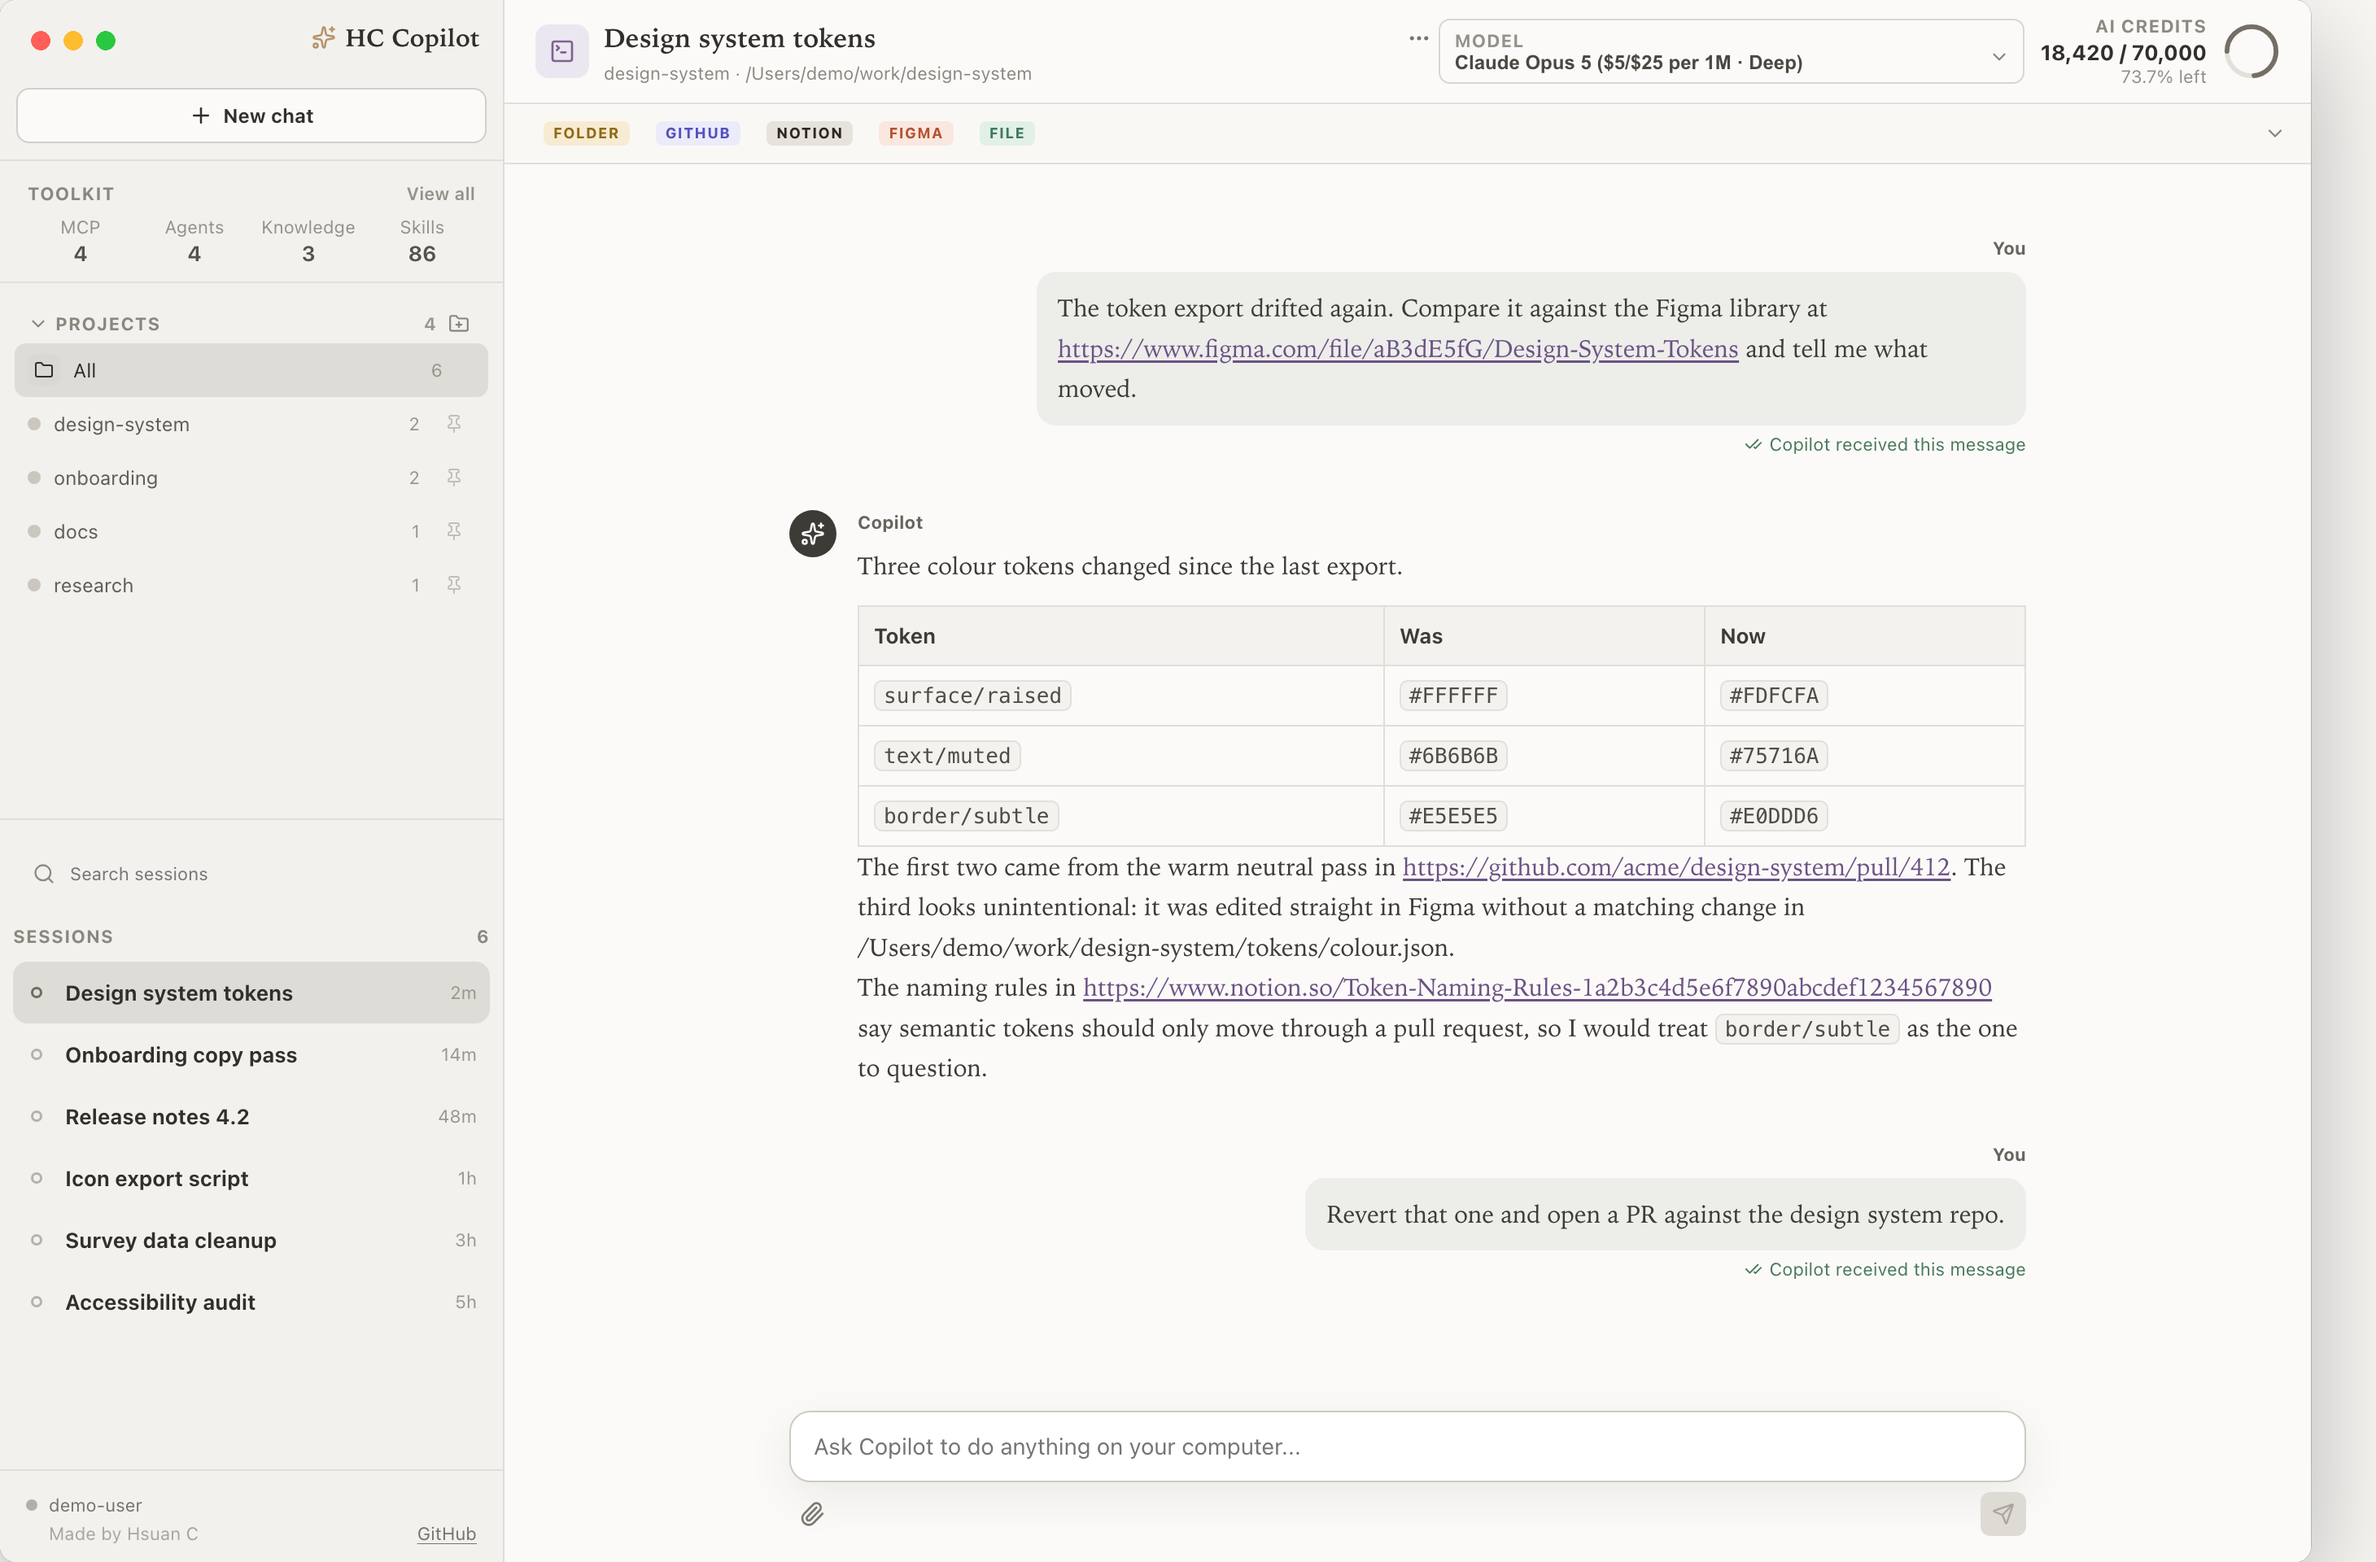
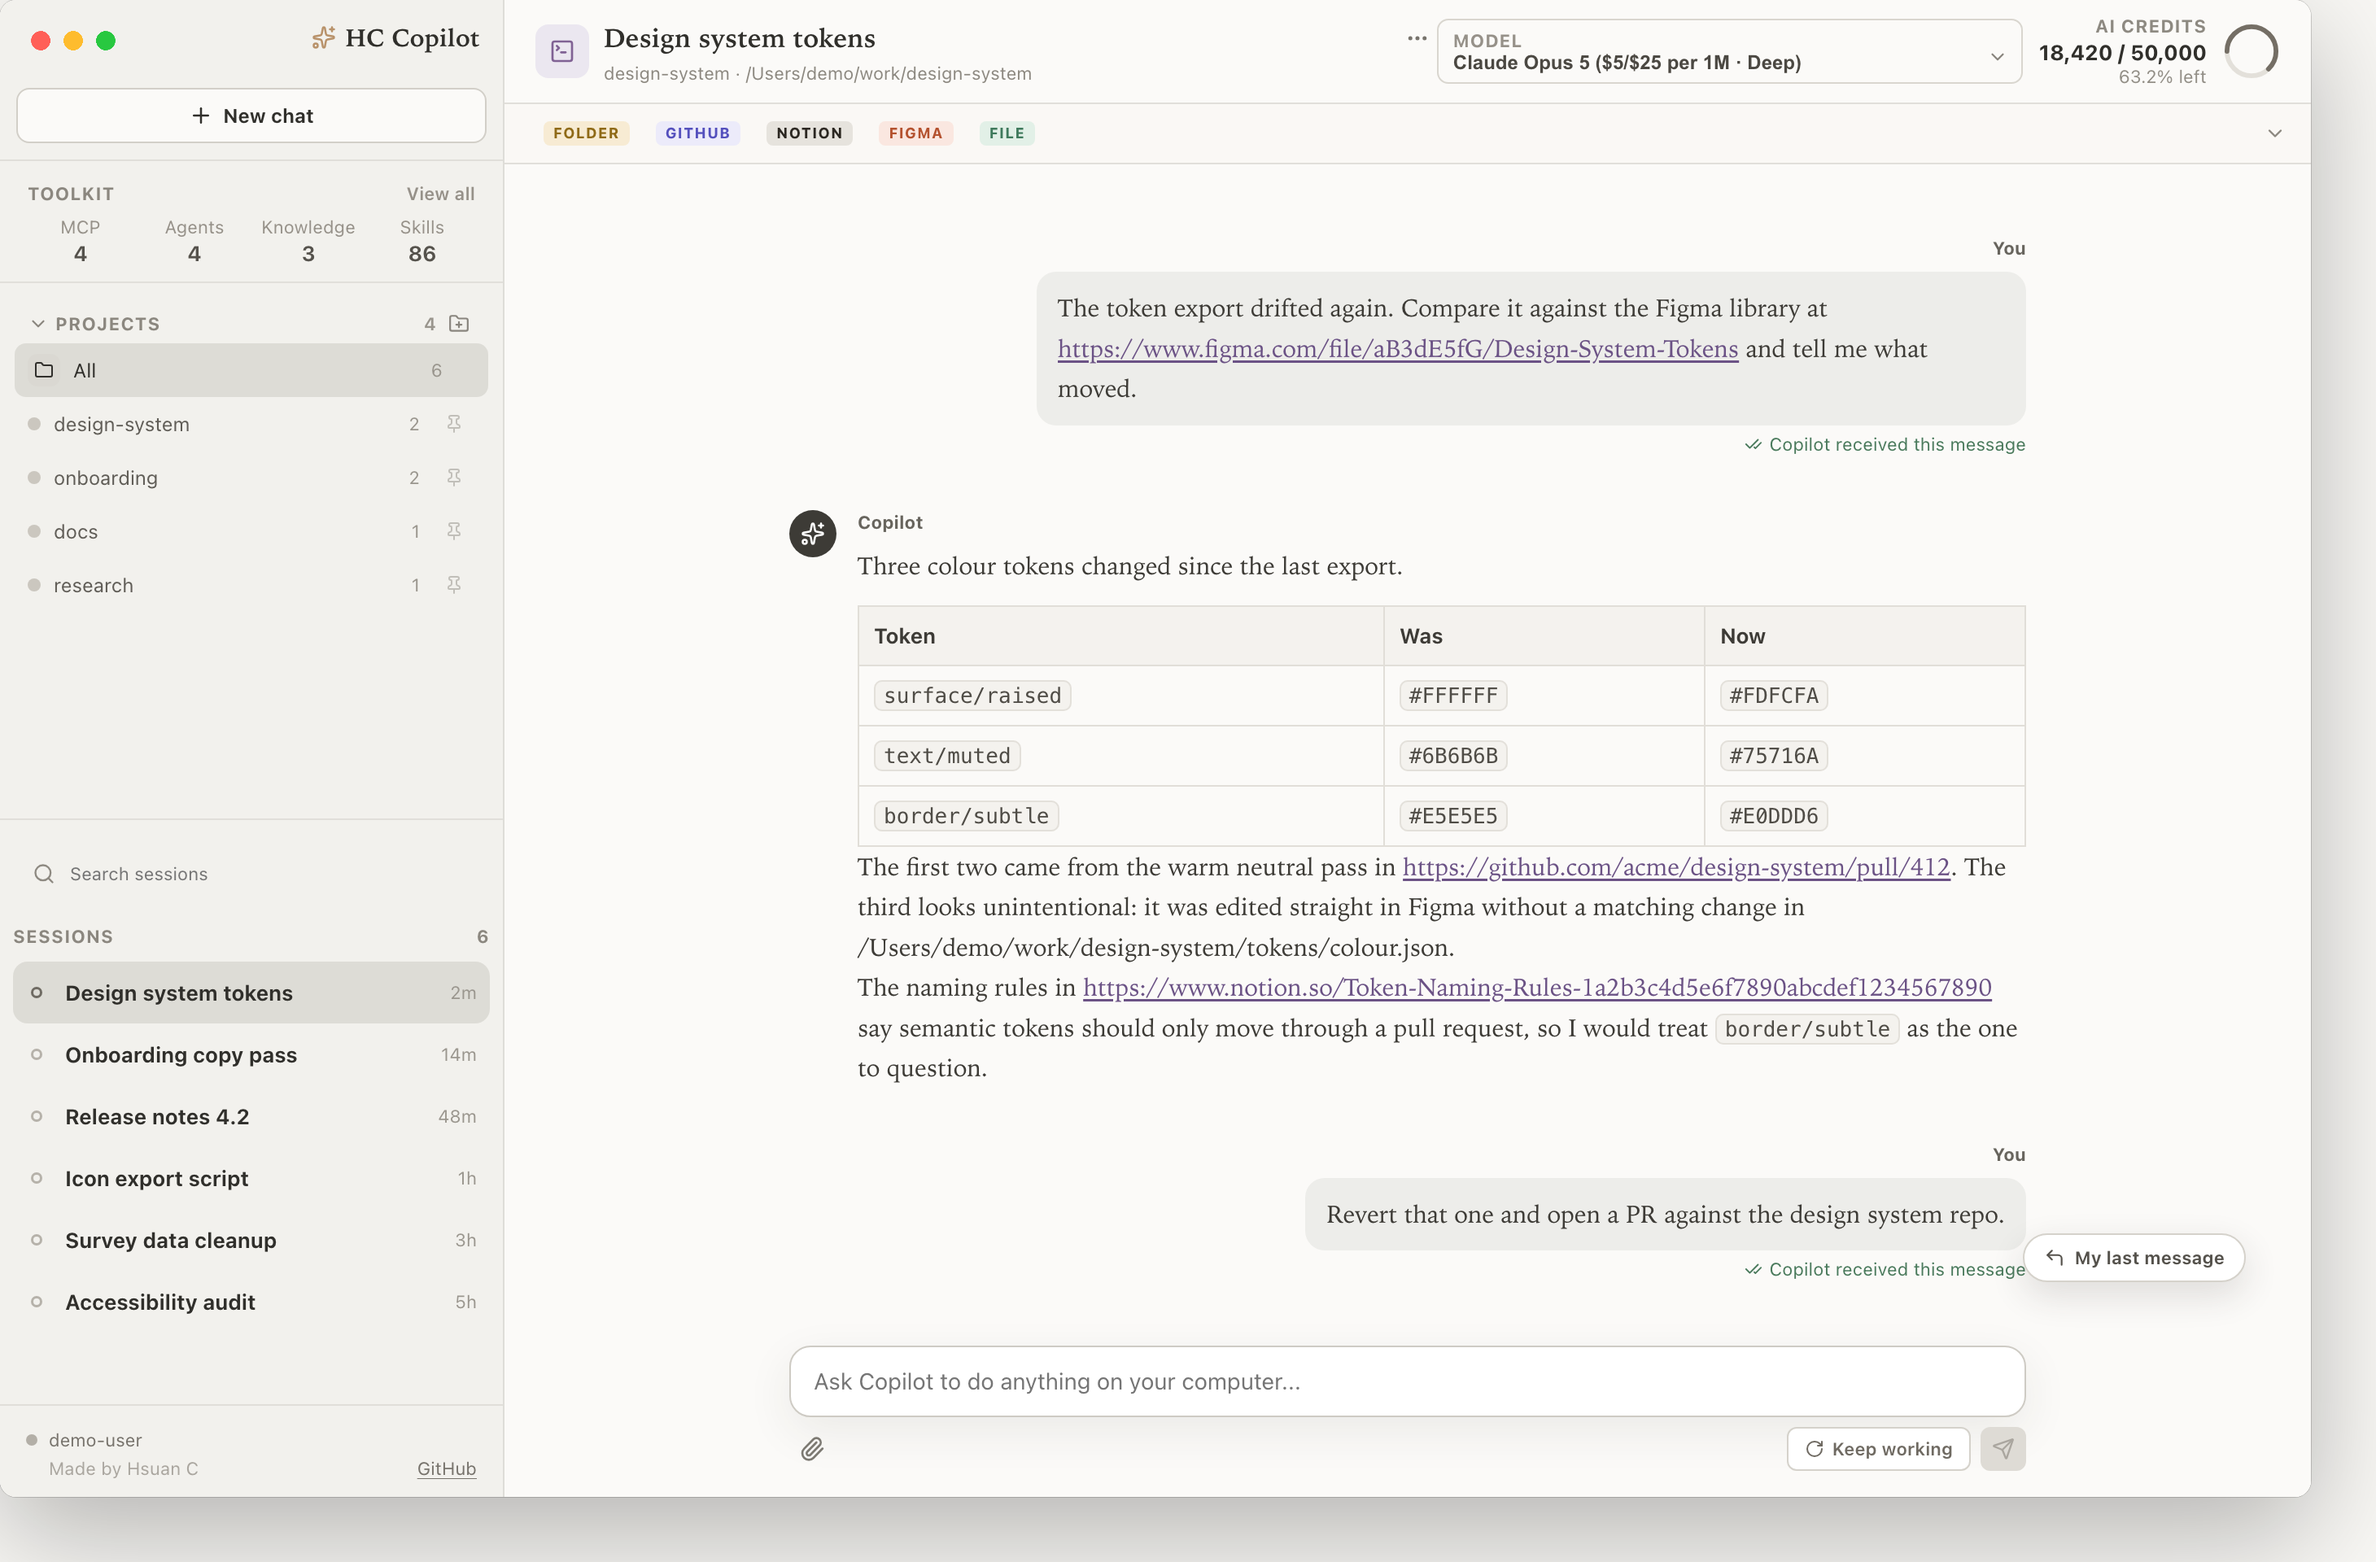
Make the demo window fill its frame at any browser height and refresh the screenshots
The app shell sizes itself to the viewport, which is correct inside
Electron but wrong inside the demo frame. In a browser shorter than the
frame the window showed an empty band at the bottom, and in a taller one
the composer buttons and the account row were cut off, which is what
happened to a fresh capture. The demo page now tells the shell to fill
the frame instead.

The tour measured its target on every animation frame and stored a new
object each time, so it rendered sixty times a second while sitting
still. It now keeps the previous measurement when nothing has moved.

All six README screenshots are recaptured so they show the 50,000
allowance the demo now uses.

diff --git a/demo.html b/demo.html
@@ -7,8 +7,6 @@
     <style>
       html, body {
         margin: 0;
-        height: 100%;
-        overflow: hidden;
       }
 
       body.shot {
@@ -18,6 +16,8 @@
       /* Web mode gets a calm neutral page background so the scaled window sits on
          something other than plain white, with room around it on every side. */
       body.web {
+        height: 100vh;
+        overflow: hidden;
         background: #ece9e3;
       }
 
@@ -43,6 +43,12 @@
         overflow: hidden;
         border-radius: 10px;
         box-shadow: 0 22px 70px rgba(0, 0, 0, .28), 0 0 0 .5px rgba(0, 0, 0, .16);
+      }
+
+      /* The app sizes itself to the viewport, which is only right inside Electron.
+         Here it has to fill the fixed stage instead, whatever the browser height. */
+      #root .app-shell {
+        height: 100%;
       }
 
       /* The traffic lights are drawn by macOS, so the harness paints stand ins. */
